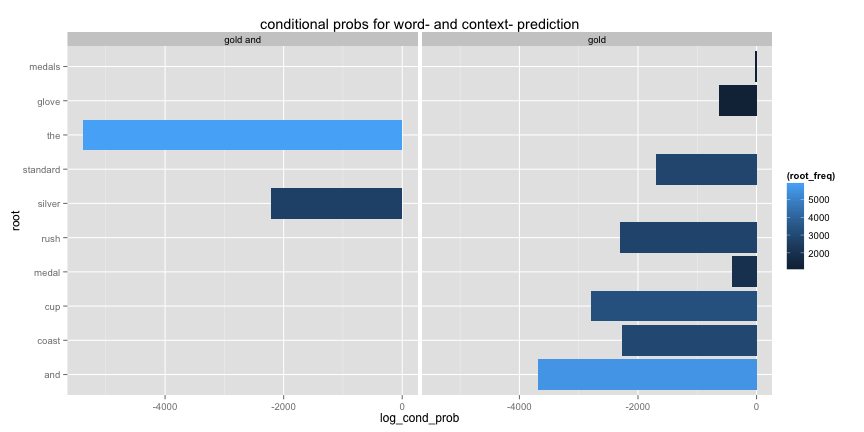
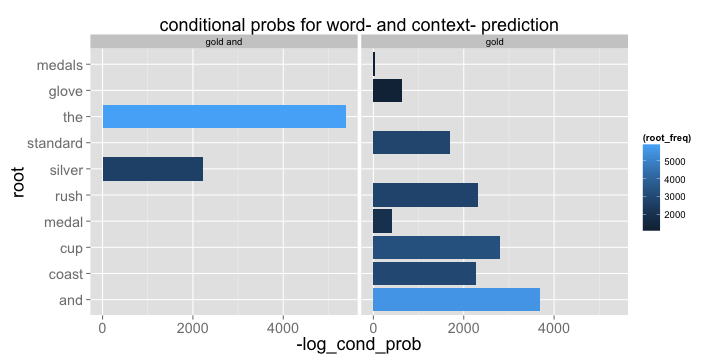
final update with better graph

Changed region(s): [[0.0, 0.0306, 0.9778, 1.0], [0.3667, 0.7333, 0.3972, 0.7639], [0.3667, 0.6722, 0.3972, 0.7028]]

diff --git a/Presentation 2-rpubs.html b/Presentation 2-rpubs.html
@@ -749,7 +749,7 @@ hljs.initHighlightingOnLoad();
   <div class="slides">
 
 <section data-state="section" data-transition="default" data-transition-speed="default">
-<h1>Word RippeR     </h1><p>Winston A Saunders<br/>April 19, 2015</p>
+<h1>Word RippeR     </h1><p>Winston A. Saunders<br/>April 19, 2015</p>
 
 <div class="column column1 slideContent" style="width: 58%;" >
 
@@ -764,7 +764,7 @@ hljs.initHighlightingOnLoad();
 
 </section>
 <section data-transition="default" data-transition-speed="default">
-<h3>Word Ripper Use Instructions</h3>
+<h3>Word RippeR: Use Instructions</h3>
 <div class="slideContent" >
 <p><strong>Toolkit:</strong>      </p>
 
@@ -786,41 +786,45 @@ hljs.initHighlightingOnLoad();
 
 </section>
 <section data-transition="default" data-transition-speed="default">
-<h3>Algorithm Description</h3>
+<h3>Word RippeR: Algorithm </h3>
 <div class="slideContent" >
-<p>The <strong>Word-Match Algorithm</strong> as the following steps:<br/>
-1. Extract last three words from text string.<br/>
+<p>The <strong>Word-Match Algorithm</strong> has the following steps:<br/>
+1. Extracts the last three words from text string.<br/>
 2. Count matches to four-gram &ldquo;stems&rdquo;.<br/>
 3. Repeat for three- and two-grams.<br/>
 4. Calculate conditional probabilities and sort results.<br/>
-5. Select highest probability/highest order matched n-gram as best match.  </p>
+5. Select highest probability of the highest order matched n-gram as best match.  </p>
 
-<p>The <strong>Context Match Algorithm</strong> works similarly, except stop words are removed from text and n-grams processing. </p>
+<p>The <strong>Context Match Algorithm</strong> works similarly, except stop words are removed. </p>
+
+<p><center><strong>Algorithm Adapability for Different Use-Cases</strong></center></p>
 
 </div>
 
 </section>
 <section data-transition="default" data-transition-speed="default">
-<h3>Markov n-gram look-up tables</h3>
+<h3>Word RippeR: n-gram tables</h3>
 <div class="slideContent" >
-<p>Basing prediction on n-gram frequencies stored as integers</p>
+<p>Computed n-gram data tables stored as integers</p>
 
 <pre><code class="r">freq &lt;- as.integer(2000*log10(word_count))
 </code></pre>
 
-<p>give faster look-up based conditional probability</p>
+<p>giving faster look-up based probability</p>
 
 <!-- html table generated in R 3.1.3 by xtable 1.7-4 package -->
 
-<!-- Mon Apr 20 11:01:28 2015 -->
+<!-- Mon Apr 20 14:56:30 2015 -->
 
 <table border=1>
 <tr> <th> n_gram </th> <th> frequency </th> <th> stem </th> <th> root </th> <th> root_freq </th>  </tr>
-  <tr> <td> up with a </td> <td align="right"> 2595 </td> <td> up with </td> <td> a </td> <td align="right"> 5554 </td> </tr>
-  <tr> <td> but it is </td> <td align="right"> 2706 </td> <td> but it </td> <td> is </td> <td align="right"> 5204 </td> </tr>
-  <tr> <td> its been a </td> <td align="right"> 2594 </td> <td> its been </td> <td> a </td> <td align="right"> 5554 </td> </tr>
-  <tr> <td> one of them </td> <td align="right"> 2658 </td> <td> one of </td> <td> them </td> <td align="right"> 4385 </td> </tr>
+  <tr> <td> is not the </td> <td align="right"> 2622 </td> <td> is not </td> <td> the </td> <td align="right"> 5855 </td> </tr>
+  <tr> <td> am going to </td> <td align="right"> 2629 </td> <td> am going </td> <td> to </td> <td align="right"> 5618 </td> </tr>
+  <tr> <td> side of the </td> <td align="right"> 2851 </td> <td> side of </td> <td> the </td> <td align="right"> 5855 </td> </tr>
+  <tr> <td> to find a </td> <td align="right"> 2663 </td> <td> to find </td> <td> a </td> <td align="right"> 5554 </td> </tr>
    </table>
+
+<p>analysis for high algorthim performance.</p>
 
 <pre><code class="r">log_cond_prob &lt;- frequency - root_freq
 </code></pre>
@@ -829,33 +833,15 @@ hljs.initHighlightingOnLoad();
 
 </section>
 <section data-transition="default" data-transition-speed="default">
-<h3>Example Results</h3>
+<h3>Word RippeR: Example Results</h3>
 <div class="slideContent" >
-<p><strong>phrase</strong>: You cook the best food I have ever  &hellip;<br/>
-  &hellip;seen  <strong>(word based prediction)</strong><br/>
-  &hellip;experienced  <strong>(context based prediction)</strong>   </p>
+<p><strong>Phrase</strong>: There&#39;s a lady who&#39;s sure all that glitters is gold and &hellip;<br/>
+       &hellip;silver    <strong>(word based prediction)</strong><br/>
+       &hellip;medals    <strong>(context based prediction)</strong>   </p>
 
-<!-- html table generated in R 3.1.3 by xtable 1.7-4 package -->
+<p>results differ based on stem and prediction method. Note that a lower log value corresponds to a higher probability. </p>
 
-<!-- Mon Apr 20 11:01:40 2015 -->
-
-<table border=1>
-<tr> <th> n_gram </th> <th> stem </th> <th> root </th> <th> log_cond_prob </th>  </tr>
-  <tr> <td> have ever seen </td> <td> have ever </td> <td> seen </td> <td align="right"> -1964 </td> </tr>
-  <tr> <td> have ever been </td> <td> have ever </td> <td> been </td> <td align="right"> -3371 </td> </tr>
-  <tr> <td> have ever had </td> <td> have ever </td> <td> had </td> <td align="right"> -3505 </td> </tr>
-   </table>
-
-<!-- html table generated in R 3.1.3 by xtable 1.7-4 package -->
-
-<!-- Mon Apr 20 11:01:40 2015 -->
-
-<table border=1>
-<tr> <th> n_gram </th> <th> stem </th> <th> root </th> <th> log_cond_prob </th>  </tr>
-  <tr> <td> ever experienced </td> <td> ever </td> <td> experienced </td> <td align="right">   0 </td> </tr>
-  <tr> <td> ever encountered </td> <td> ever </td> <td> encountered </td> <td align="right"> -636 </td> </tr>
-  <tr> <td> ever seen </td> <td> ever </td> <td> seen </td> <td align="right"> -1139 </td> </tr>
-   </table>
[1 lines of base64/hex data omitted]
 
 </div>
 

diff --git a/Presentation 2.md b/Presentation 2.md
@@ -13,7 +13,7 @@ transition: rotate
 ![alt text](tactical.001.jpg)
 
 
-Word Ripper Use Instructions
+Word RippeR: Use Instructions
 ========================================================
  
 __Toolkit:__      
@@ -26,57 +26,61 @@ __Web Interface:__
   
 <center>__Agile, Flexible, and Compact Natural Language Prediction__</center>
         
-Algorithm Description
+Word RippeR: Algorithm 
 ========================================================
 
-The __Word-Match Algorithm__ as the following steps:  
-1. Extract last three words from text string.  
+The __Word-Match Algorithm__ has the following steps:  
+1. Extracts the last three words from text string.  
 2. Count matches to four-gram "stems".  
 3. Repeat for three- and two-grams.  
 4. Calculate conditional probabilities and sort results.   
-5. Select highest probability/highest order matched n-gram as best match.  
+5. Select highest probability of the highest order matched n-gram as best match.  
 
-The __Context Match Algorithm__ works similarly, except stop words are removed from text and n-grams processing. 
+The __Context Match Algorithm__ works similarly, except stop words are removed. 
 
-Markov n-gram look-up tables
+<center>__Algorithm Adapability for Different Use-Cases__</center>
+
+Word RippeR: n-gram tables
 ========================================================
 
-Basing prediction on n-gram frequencies stored as integers
+Computed n-gram data tables stored as integers
 
 
 ```r
 freq <- as.integer(2000*log10(word_count))
 ```
 
-give faster look-up based conditional probability
+giving faster look-up based probability
 
 
 
 <!-- html table generated in R 3.1.3 by xtable 1.7-4 package -->
-<!-- Mon Apr 20 14:10:28 2015 -->
+<!-- Mon Apr 20 14:56:30 2015 -->
 <table border=1>
 <tr> <th> n_gram </th> <th> frequency </th> <th> stem </th> <th> root </th> <th> root_freq </th>  </tr>
-  <tr> <td> that it was </td> <td align="right"> 2766 </td> <td> that it </td> <td> was </td> <td align="right"> 4973 </td> </tr>
-  <tr> <td> to do with </td> <td align="right"> 2955 </td> <td> to do </td> <td> with </td> <td align="right"> 5031 </td> </tr>
-  <tr> <td> is a good </td> <td align="right"> 2671 </td> <td> is a </td> <td> good </td> <td align="right"> 4423 </td> </tr>
-  <tr> <td> a series of </td> <td align="right"> 2690 </td> <td> a series </td> <td> of </td> <td align="right"> 5479 </td> </tr>
+  <tr> <td> is not the </td> <td align="right"> 2622 </td> <td> is not </td> <td> the </td> <td align="right"> 5855 </td> </tr>
+  <tr> <td> am going to </td> <td align="right"> 2629 </td> <td> am going </td> <td> to </td> <td align="right"> 5618 </td> </tr>
+  <tr> <td> side of the </td> <td align="right"> 2851 </td> <td> side of </td> <td> the </td> <td align="right"> 5855 </td> </tr>
+  <tr> <td> to find a </td> <td align="right"> 2663 </td> <td> to find </td> <td> a </td> <td align="right"> 5554 </td> </tr>
    </table>
+
+analysis for high algorthim performance.
 
 
 ```r
 log_cond_prob <- frequency - root_freq
 ```
 
-Example Results
+Word RippeR: Example Results
 =============================================
 
 
   
-__phrase__: Theres a lady who's sure all that glitters is gold and ...   
-  ...silver  __(word based prediction)__    
-  ...medals  __(context based prediction)__   
+__Phrase__: There's a lady who's sure all that glitters is gold and ...   
+       ...silver    __(word based prediction)__    
+       ...medals    __(context based prediction)__   
 
-Prediction relies on different stem depending on matching method
+results differ based on stem and prediction method. Note that a lower log value corresponds to a higher probability. 
 
 
 
